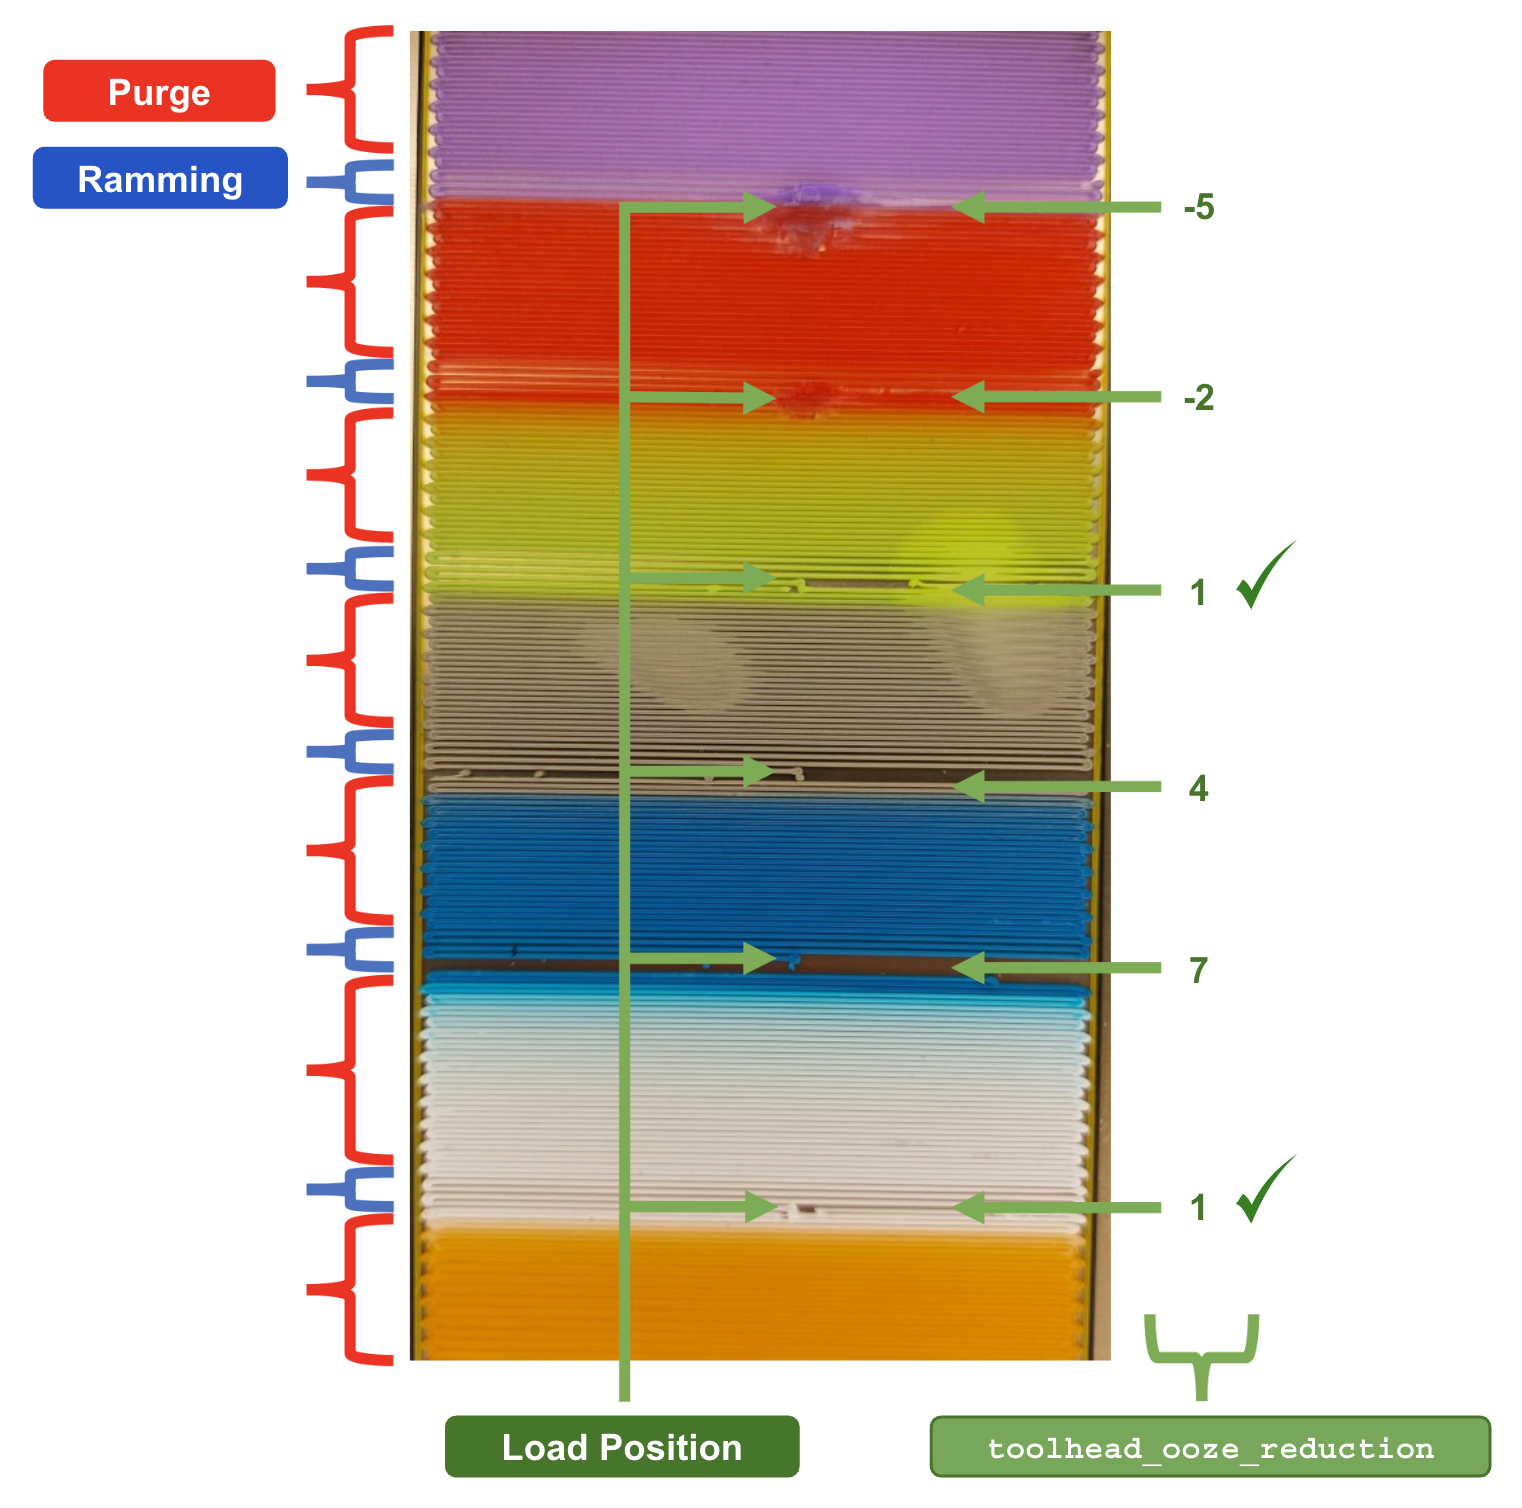
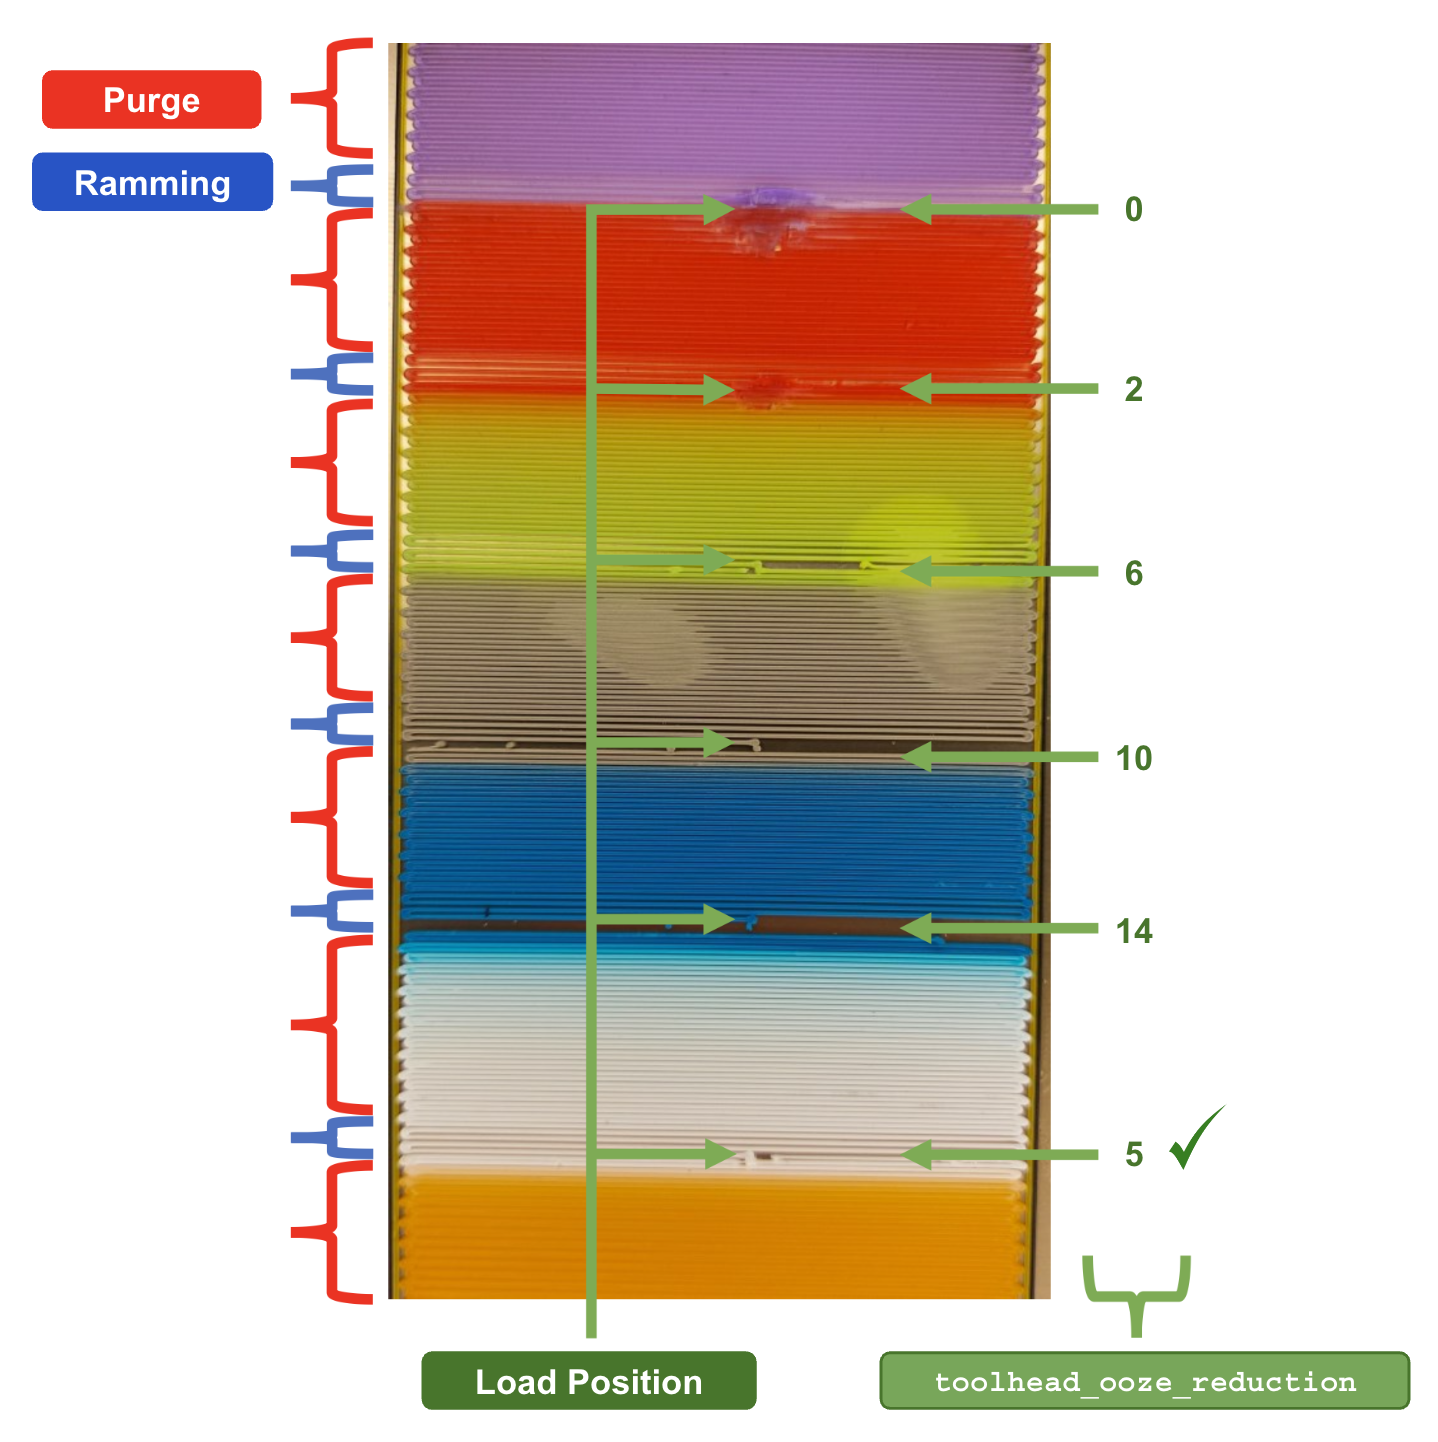
updates

diff --git a/Tip-Forming-and-Purging.md b/Tip-Forming-and-Purging.md
@@ -99,7 +99,7 @@ Even with purge volumes setup correctly the configuration of your toolhead param
 
 ### Tuning `toolhead_ooze_reduction`
 Once you are printing your first multi filament print, check the purge tower to verify that the `toolhead_ooze_reduction` value is well tuned (at that your dimensional settings are correct).  If you notice over extrusion during loads (i.e., plastic blobs on the purge tower after a load) you need to increase the `toolhead_ooze_reduction` value.
-If you notice big gaps on the purge tower after a load, you need to decrease the `toolhead_ooze_reduction` value. Note that although small negative values are allowed, going negative almost certainly means that the `toolhead_extruder_to_nozzle` or `toolhead_sensor_to_nozzle` are too long. Here is an example purge tower here, with values for the `toolhead_ooze_reduction` from -5 to +7 mm. In this example, the proper value seems to be around 1 mm. Note that because there is some uncertainty in this process (because of the filament tip shape), there will be some slight differences even when the value is the same, as shown in the green to grey and white to orange transitions.
+If you notice big gaps on the purge tower after a load, you need to decrease the `toolhead_ooze_reduction` value. Note that although small negative values are allowed, going negative almost certainly means that the `toolhead_extruder_to_nozzle` or `toolhead_sensor_to_nozzle` are too long. Here is an example purge tower here, with values for the `toolhead_ooze_reduction` from 0 to +14 mm. In this example, the proper value seems to be around 5 mm. Note that because there is some uncertainty in this process (because of the filament tip shape), there will be some slight differences even when the value is the same, as shown in the green to grey and white to orange transitions. Note that as explained in [Blobbing and Stringing](Blobbing-and-Stringing) this value represents the residual filament left behind in extruder (and why if cannot physically be negative). Low flow extruders will typicall have a value between 1-5mm and with high flow as high as 15mm.
 
 Tweaking this is something that can be done in print with:
 ```
